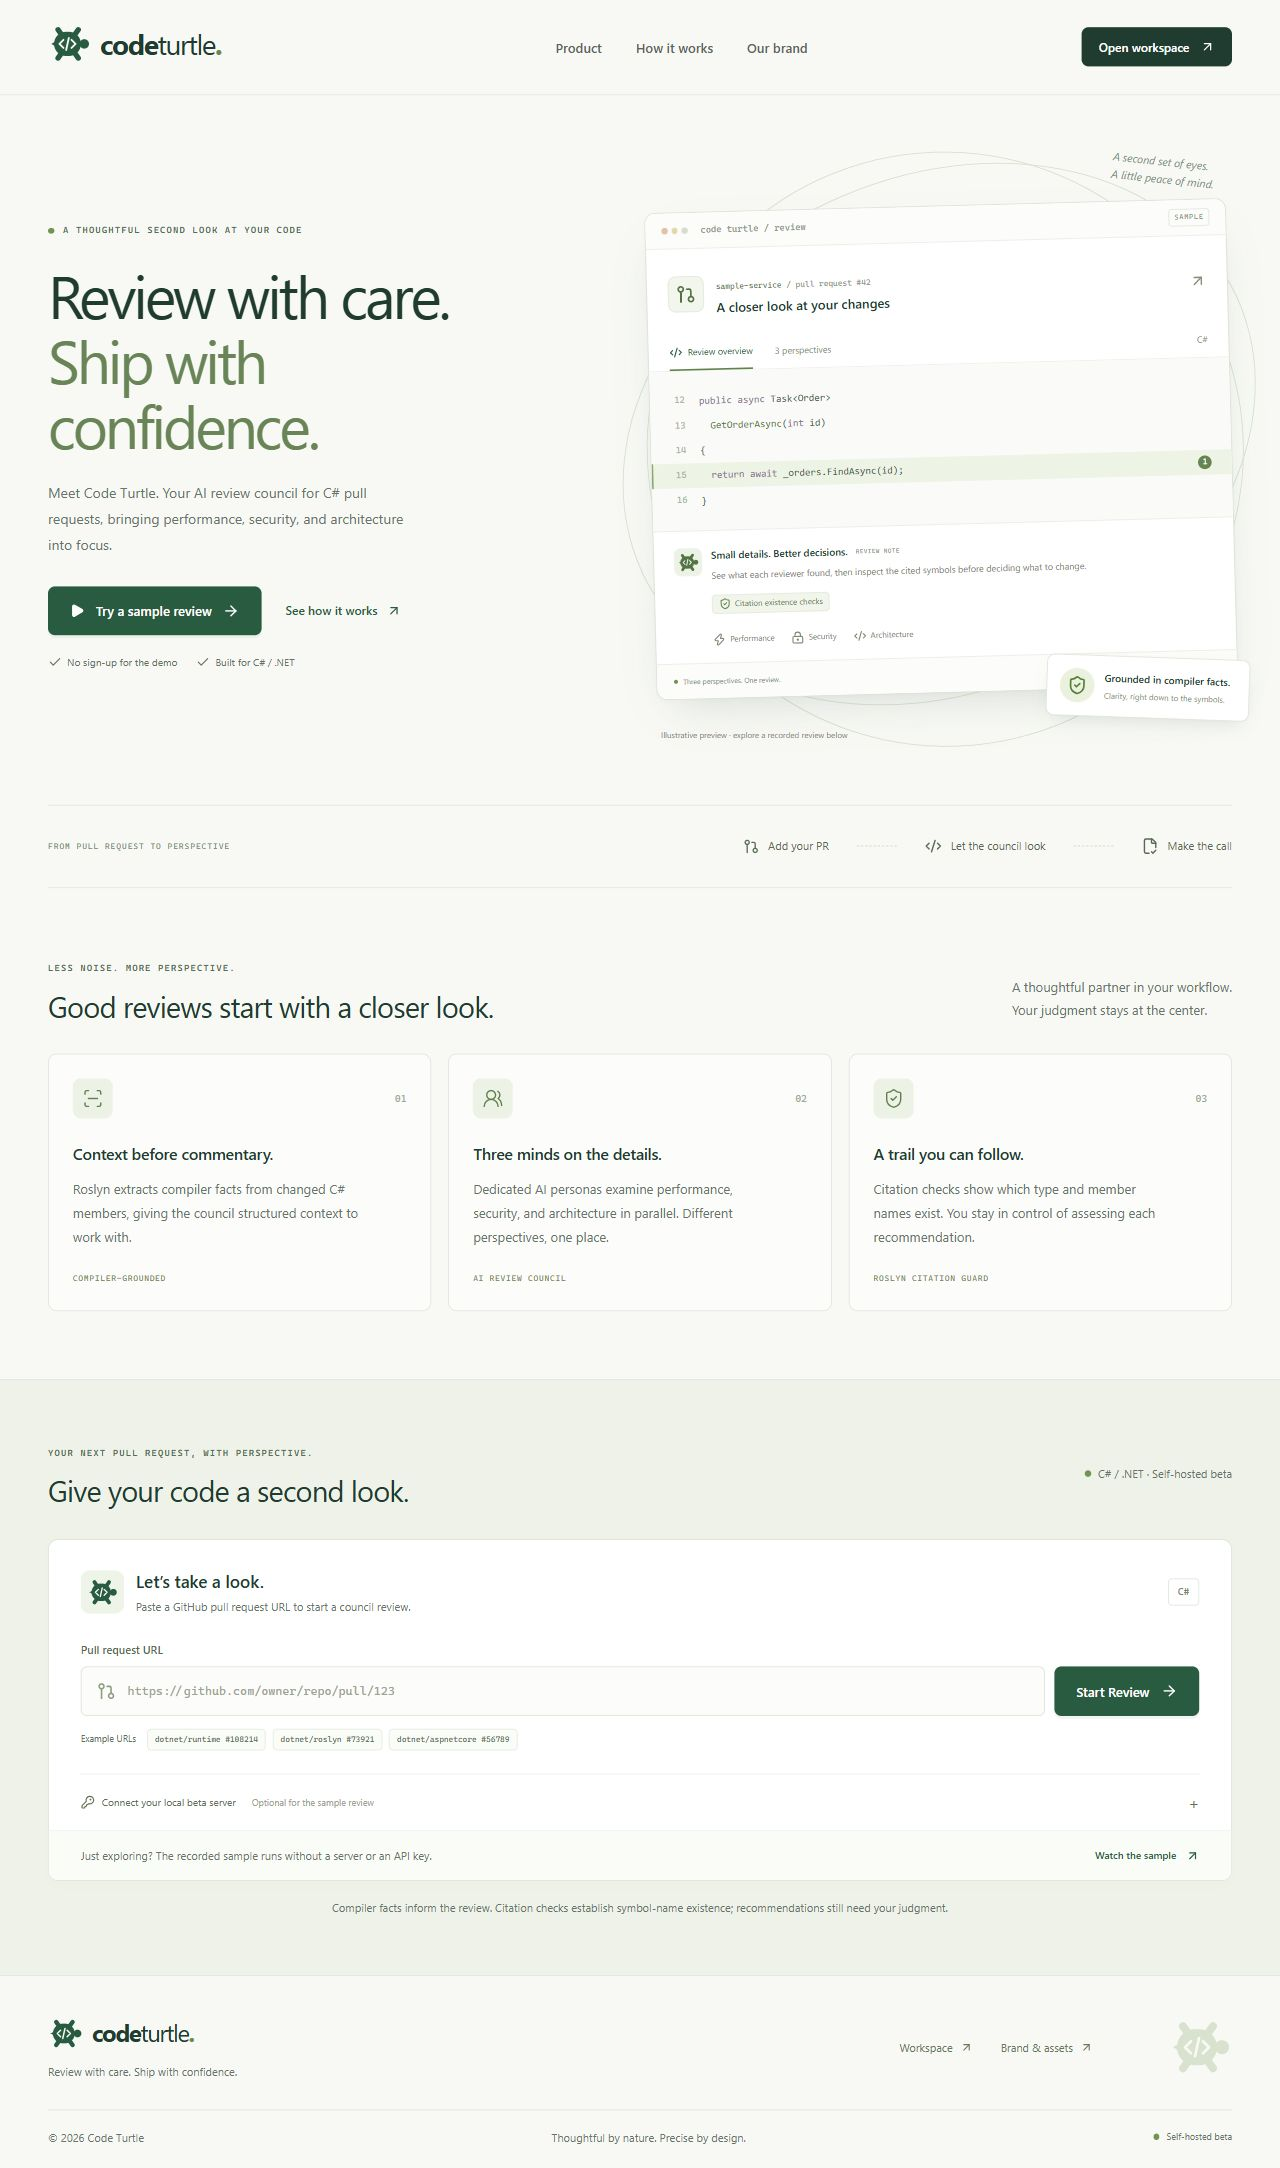
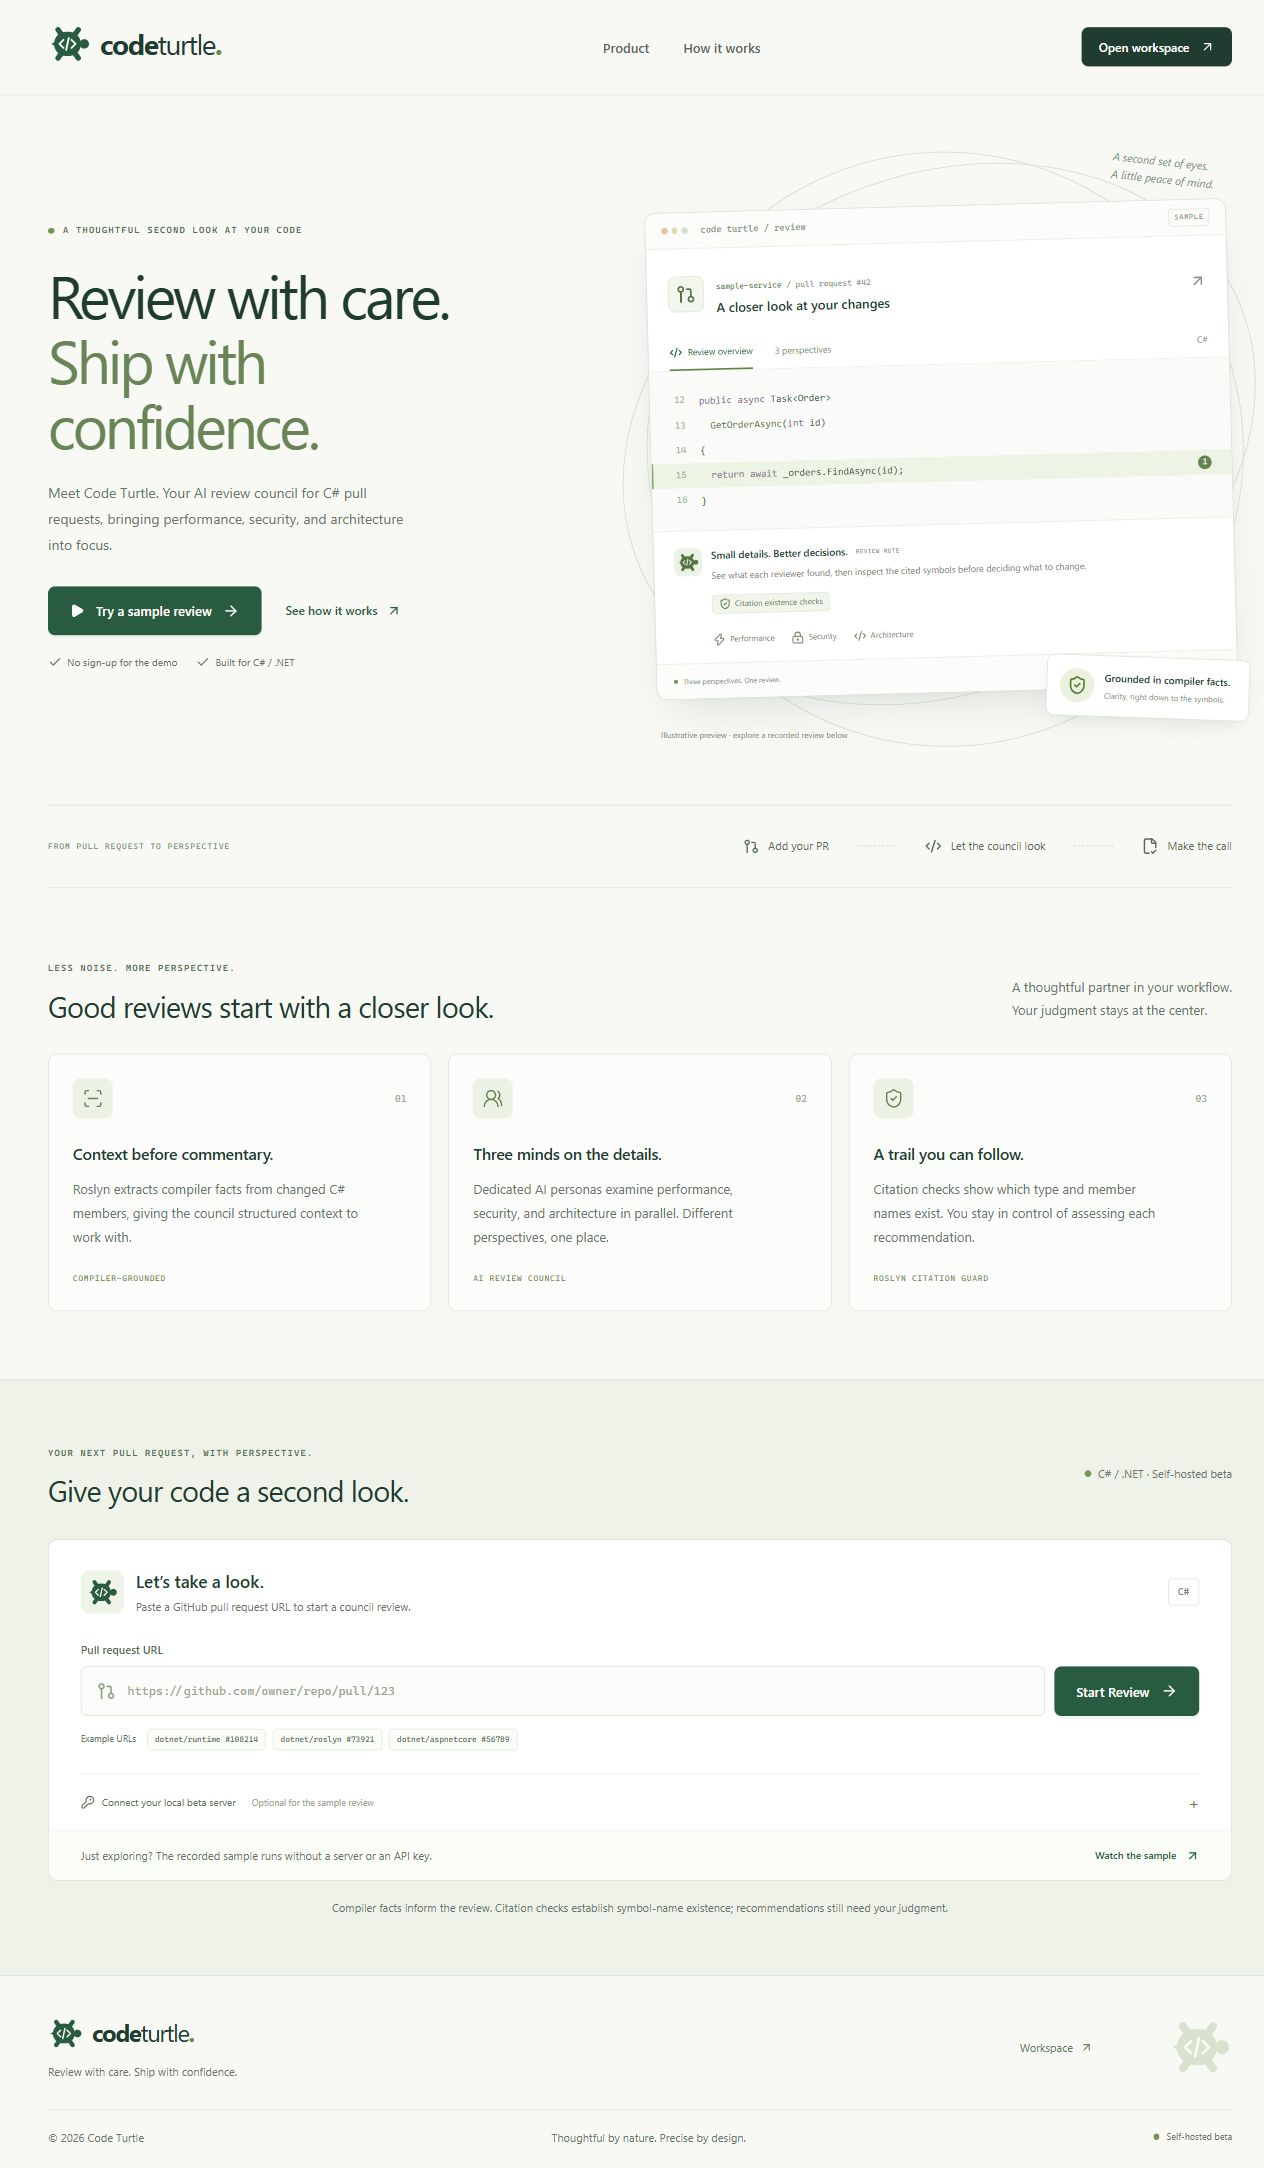
fix(web): keep developer style guide out of the product

diff --git a/web/src/app/globals.css b/web/src/app/globals.css
@@ -162,31 +162,6 @@ button:disabled { opacity: .5; cursor: not-allowed; }
 .footer-bottom .beta-label { font-size: 9px; }
 .skip-link { position: fixed; left: 20px; top: -80px; z-index: 100; background: var(--green); color: white; padding: 12px 20px; border-radius: 5px; }
 .skip-link:focus { top: 20px; }
-.brand-page { padding-block: 65px 75px; }
-.brand-intro { max-width: 650px; }
-.brand-intro h1 { font-size: clamp(42px, 5vw, 64px); line-height: 1.1; letter-spacing: -2px; font-weight: 480; margin-block: 20px; }
-.brand-intro p { color: var(--muted); font-size: 14px; line-height: 1.8; }
-.brand-lockups { display: grid; grid-template-columns: 1fr 1fr; gap: 20px; margin-top: 40px; }
-.brand-lockup { min-height: 230px; padding: 30px; border-radius: 10px; border: 1px solid var(--line); display: flex; flex-direction: column; justify-content: space-between; background: #fff; }
-.brand-lockup > .brand-logo { margin: auto; font-size: 42px; }
-.brand-lockup .brand-mark { width: 62px; height: 62px; }
-.brand-lockup > div { display: flex; justify-content: space-between; font-size: 11px; color: var(--muted); }
-.brand-lockup > div a { display: flex; gap: 6px; align-items: center; }
-.brand-lockup-dark { background: var(--ink); }
-.brand-lockup-dark .brand-logo, .brand-lockup-dark .brand-mark { color: var(--lime); --logo-detail: var(--ink); }
-.brand-lockup-dark > div { color: #b7c4ad; }
-.brand-section { margin-top: 50px; }
-.brand-section h2 { font-size: 25px; font-weight: 500; letter-spacing: -.5px; margin-bottom: 20px; }
-.brand-swatches { display: grid; grid-template-columns: repeat(6, 1fr); gap: 12px; }
-.brand-swatch { border: 1px solid var(--line); border-radius: 7px; overflow: hidden; background: white; }
-.brand-swatch > div { height: 85px; }
-.brand-swatch > p { padding: 12px; font-size: 11px; }
-.brand-swatch code { display: block; margin-top: 6px; font-size: 10px; color: var(--muted); }
-.brand-guidance { display: grid; grid-template-columns: repeat(2, 1fr); gap: 25px; }
-.brand-guidance p { color: var(--muted); font-size: 13px; line-height: 1.9; }
-.type-sample { font-size: 33px; letter-spacing: -1px; line-height: 1.2; margin-bottom: 15px; }
-.type-code { font-family: var(--font-mono); font-size: 18px; }
-.brand-downloads { display: flex; flex-wrap: wrap; gap: 10px; margin-top: 22px; }
 @media (min-width: 1450px) {
 .hero { gap: 75px; min-height: 680px; }
 .hero h1 { font-size: 70px; }
@@ -221,7 +196,6 @@ button:disabled { opacity: .5; cursor: not-allowed; }
 .section-heading h2 { font-size: 25px; }
 .feature-card { padding: 18px; }
 .workspace-heading { align-items: start; flex-direction: column; gap: 13px; }
-.brand-swatches { grid-template-columns: repeat(3, 1fr); }
 }
 @media (max-width: 600px) {
 .page-width { width: calc(100% - 40px); }
@@ -295,12 +269,6 @@ button:disabled { opacity: .5; cursor: not-allowed; }
 .footer-turtle { margin-left: auto; width: 40px; }
 .footer-bottom { flex-wrap: wrap; font-size: 8px; }
 .footer-bottom > span:nth-child(2) { display: none; }
-.brand-page { padding-block: 40px; }
-.brand-lockups, .brand-guidance { grid-template-columns: 1fr; }
-.brand-lockup { min-height: 210px; }
-.brand-lockup > .brand-logo { font-size: 35px; }
-.brand-swatches { gap: 8px; }
-.brand-swatch > p { padding: 9px; font-size: 10px; }
 }
 @media (prefers-reduced-motion: reduce) {
 html { scroll-behavior: auto; }

diff --git a/web/src/components/SiteHeader.tsx b/web/src/components/SiteHeader.tsx
@@ -3,7 +3,7 @@ import Link from 'next/link';
 import { ArrowUpRight } from 'lucide-react';
 import { BrandLogo } from './BrandLogo';
 
-export function SiteHeader({ brandPage = false }: { brandPage?: boolean; }) {
+export function SiteHeader() {
   return <header className="site-header">
     <div className="page-width nav-inner">
       <Link href="/" aria-label="Code Turtle home">
@@ -12,7 +12,6 @@ export function SiteHeader({ brandPage = false }: { brandPage?: boolean; }) {
       <nav aria-label="Main navigation" className="main-nav">
         <Link href="/#workspace">Product</Link>
         <Link href="/#how-it-works">How it works</Link>
-        <Link href="/brand" aria-current={brandPage ? 'page' : undefined}>Our brand</Link>
       </nav>
       <Link className="button button-small button-dark" href="/#workspace">Open workspace <ArrowUpRight size={15} />
       </Link>

diff --git a/web/tests/landing-page.test.tsx b/web/tests/landing-page.test.tsx
@@ -260,9 +260,10 @@ describe('HomePage Integration', () => {
     fetchSpy.mockRestore();
   });
 
-  it('links to real brand assets and keeps server access inside an optional disclosure', () => {
+  it('keeps developer style guidance out of product navigation and server access optional', () => {
     render(<HomePage />);
-    expect(screen.getByRole('link', { name: 'Our brand' }).getAttribute('href')).toBe('/brand');
+    expect(screen.queryByRole('link', { name: 'Our brand' })).toBeNull();
+    expect(screen.queryByRole('link', { name: 'Brand & assets' })).toBeNull();
     expect(screen.getByLabelText('Local beta access key').closest('details')?.open).toBe(false);
     expect(screen.getByRole('link', { name: /open workspace/i }).getAttribute('href')).toBe('/#workspace');
   });

diff --git a/web/src/components/ProductStory.tsx b/web/src/components/ProductStory.tsx
@@ -58,8 +58,6 @@ export function SiteFooter() {
       <div className="footer-links">
         <Link href="/#workspace">Workspace <ArrowUpRight size={13} />
         </Link>
-        <Link href="/brand">Brand & assets <ArrowUpRight size={13} />
-        </Link>
       </div>
       <TurtleMark className="footer-turtle" />
     </div>

diff --git a/docs/development/theme.css b/docs/development/theme.css
@@ -1,4 +1,4 @@
-/* Code Turtle brand tokens. Import into web surfaces to share the palette. */
+/* Code Turtle developer reference tokens; not a public app download. */
 :root {
   --ct-paper: #f8f9f5;
   --ct-surface: #ffffff;

diff --git a/web/README.md b/web/README.md
@@ -10,7 +10,7 @@
 **Review with care. Ship with confidence.**
 
 The Next.js 15 / React 19 interface for Code Turtle: a product page, C# review
-workspace, recorded sample replay, and a reusable brand library.
+workspace, and recorded sample replay.
 
 ![Code Turtle product page](../docs/assets/product-preview.jpg)
 
@@ -24,8 +24,7 @@ npm ci
 npm run dev
 ```
 
-Open [localhost:3000](http://localhost:3000) for the product page and
-[localhost:3000/brand](http://localhost:3000/brand) for the brand library.
+Open [localhost:3000](http://localhost:3000) for the product page.
 
 Choose **Try a sample review** or **Watch the sample** to explore the recorded
 review. The replay needs no server, account, access key, or model credentials.
@@ -56,40 +55,6 @@ key, which is held in page memory for the session.
 See [.env.example](.env.example), the [beta guide](../docs/beta/BETA.md), and
 [isolation controls](../docs/ISOLATION.md) before enabling the API. A frontend
 preview alone does not provide a hosted review service.
-
-## Brand and theme
-
-Use **Code Turtle** in prose and the lowercase **codeturtle.** wordmark in the logo.
-The tagline is **Review with care. Ship with confidence.**
-
-![Code Turtle brand library](../docs/assets/brand-preview.jpg)
-
-| Color | Value | Role |
-|---|---|---|
-| Forest | `#285B40` | Primary actions and icon |
-| Ink | `#203B30` | Text and dark identity surfaces |
-| Paper | `#F8F9F5` | Page background |
-| Sage | `#E9EEE4` | Supporting surfaces |
-| Lime | `#D6EDB6` | Accents and reversed logo |
-| Slate leaf | `#68746B` | Supporting text |
-
-Use the system sans serif stack for interface copy and Cascadia Code,
-SFMono-Regular, or Consolas for code and compact labels. The UI needs no remote
-font request. Keep functional copy readable, preserve visible keyboard focus,
-and pair severity colors with text and icons.
-
-| Asset | Source |
-|---|---|
-| Primary wordmark | [code-turtle-logo.svg](public/brand/code-turtle-logo.svg) |
-| Reversed wordmark | [code-turtle-logo-reversed.svg](public/brand/code-turtle-logo-reversed.svg) |
-| Turtle icon and favicon | [code-turtle-icon.svg](public/brand/code-turtle-icon.svg) |
-| Portable theme tokens | [theme.css](public/brand/theme.css) |
-| Logo usage, typography, and voice | [brand-guide.md](public/brand/brand-guide.md) |
-| Product UI styles | [globals.css](src/app/globals.css) |
-| Dark forest review palette | [tailwind.config.ts](tailwind.config.ts) |
-
-The `/brand` page serves downloadable assets from `public/brand/`. The full guide
-covers logo clear space, minimum size, color use, typography, and writing principles.
 
 ## Checks
 

diff --git a/README.md b/README.md
@@ -15,8 +15,8 @@ symbol references; it does not verify recommendation correctness or changed-code
 
 [![CI](https://github.com/prasadrane/Code-Turtle-Engine/actions/workflows/ci.yml/badge.svg)](https://github.com/prasadrane/Code-Turtle-Engine/actions/workflows/ci.yml)
 
-[Web UI](web/README.md) · [Brand guide](web/public/brand/brand-guide.md) ·
-[Architecture](ARCHITECTURE.md) · [Self-hosted beta](docs/beta/BETA.md)
+[Web UI](web/README.md) · [Architecture](ARCHITECTURE.md) ·
+[Self-hosted beta](docs/beta/BETA.md)
 
 ![Code Turtle product page in the forest-green, sage, and warm-white theme](docs/assets/product-preview.jpg)
 
@@ -48,46 +48,11 @@ sample; it is not evidence of a new live model review.
 </details>
 
 <details>
-<summary>Brand library — logos, palette, and typography</summary>
-
-![Code Turtle brand library with primary and reversed wordmarks, color palette, and usage guidance](docs/assets/brand-preview.jpg)
-
-Run the web UI and open `/brand` to download the logos, icon, theme tokens,
-and brand guide.
-
-</details>
-
-<details>
 <summary>Mobile product page</summary>
 
 <img src="docs/assets/mobile-preview.jpg" alt="Code Turtle product page at a 390-pixel mobile viewport" width="280">
 
 </details>
-
-## Brand and theme
-
-Use **Code Turtle** in prose and the supplied lowercase **codeturtle.** wordmark
-in the logo. The turtle carries code brackets in its shell: care and steady
-progress, with a clear connection to the product.
-
-| Color | Hex | Role |
-|---|---|---|
-| Forest | `#285B40` | Primary actions and turtle icon |
-| Ink | `#203B30` | Headings, body text, dark identity surfaces |
-| Paper | `#F8F9F5` | Main page background |
-| Sage | `#E9EEE4` | Quiet supporting surfaces |
-| Lime | `#D6EDB6` | Accents and reversed wordmark |
-| Slate leaf | `#68746B` | Supporting text |
-
-The interface pairs system sans serif typography with monospace code and labels.
-Light product surfaces lead into a dark forest review console, with severity
-labels and icons alongside color.
-
-[Primary logo](web/public/brand/code-turtle-logo.svg) ·
-[Reversed logo](web/public/brand/code-turtle-logo-reversed.svg) ·
-[Turtle icon](web/public/brand/code-turtle-icon.svg) ·
-[Theme tokens](web/public/brand/theme.css) ·
-[Full brand guide](web/public/brand/brand-guide.md)
 
 Screenshot states and refresh instructions are documented in
 [docs/assets/README.md](docs/assets/README.md).

diff --git a/docs/assets/README.md b/docs/assets/README.md
@@ -8,12 +8,11 @@ tagline, and the forest, ink, paper, sage, and lime palette.
 |---|---|---|
 | [product-preview.jpg](product-preview.jpg) | Full desktop product page | Idle workspace; illustrative hero preview |
 | [review-workspace.jpg](review-workspace.jpg) | Desktop review workspace | Completed recorded sample; replay disclosure visible |
-| [brand-preview.jpg](brand-preview.jpg) | Full desktop brand library | Primary/reversed logos, palette, typography, usage, and asset links |
 | [mobile-preview.jpg](mobile-preview.jpg) | Mobile product page | Top viewport; idle workspace |
 | [dashboard-preview.png](dashboard-preview.png) | Historical dashboard | Previous UI; retained for historical document references |
 
 Desktop captures use a 1280 × 900 browser viewport; the mobile capture uses
-390 × 844. Browser scrollbars may make the image width slightly narrower.
+390 × 844. Browser chrome and scrollbars may make the image dimensions slightly smaller.
 
 The review screenshot uses the shipped replay data. It does not represent a fresh
 model review, new benchmark result, or hosted-service validation. No server access
@@ -35,15 +34,11 @@ npm start
 2. Select **Try a sample review**, then **Skip to End**. Open the **Product**
    anchor and let scrolling and animations settle. Capture the workspace viewport
    as `review-workspace.jpg`, keeping the recorded-sample disclosure visible.
-3. Open `/brand` and capture the full page as `brand-preview.jpg`.
-4. Return to the idle product page, switch to a 390 × 844 viewport, scroll to the
+3. Return to the idle product page, switch to a 390 × 844 viewport, scroll to the
    top, and capture the visible viewport as `mobile-preview.jpg`.
-5. Restore the browser's normal viewport and leave the product page idle.
-6. Inspect every image, update the capture date here, and check the image links in
+4. Restore the browser's normal viewport and leave the product page idle.
+5. Inspect every image, update the capture date here, and check the image links in
    both the root and web READMEs. Keep the historical PNG labeled as historical.
 
 Use JPEG files for these browser captures. Preserve actual UI copy and sample
 disclosures; do not replace them with invented review results or marketing claims.
-
-The source brand assets and usage rules live in
-[web/public/brand](../../web/public/brand/brand-guide.md).

diff --git a/docs/development/STYLE_GUIDE.md b/docs/development/STYLE_GUIDE.md
@@ -1,4 +1,7 @@
-# Code Turtle brand guide
+# Code Turtle developer style guide
+
+Repository-only guidance for maintaining the product identity and UI. This is
+developer documentation, not an app page or a public download.
 
 Tagline: **Review with care. Ship with confidence.**
 
@@ -51,9 +54,10 @@ Say "citation existence checked"; do not imply that a recommendation is proven c
 Describe sample data as sample data. Avoid unsupported accuracy, speed, customer, or ROI claims.
 
 ## Assets
-All assets in this folder are locally served and reusable. `theme.css` provides portable
-tokens. The application uses the same palette in `src/app/globals.css` and the forest
-review palette in `tailwind.config.ts`.
+The SVG logo assets live in `web/public/brand/` and are used by the app and README
+headers. [theme.css](theme.css) provides portable reference tokens for developers.
+The application uses the same palette in `web/src/app/globals.css` and the forest
+review palette in `web/tailwind.config.ts`.
 
 This guide defines a proposed product identity. It does not establish name/trademark
 availability, production hosting, billing, or commercial launch readiness.
